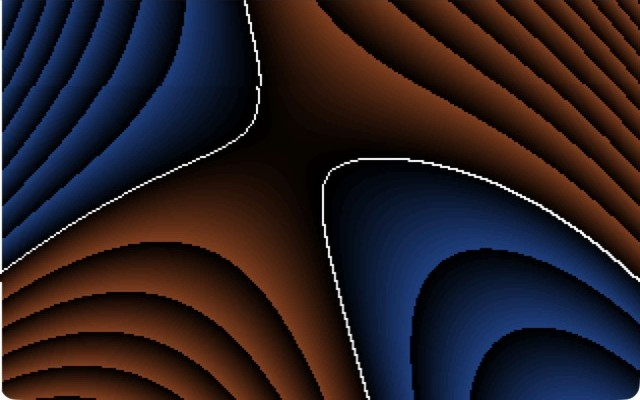
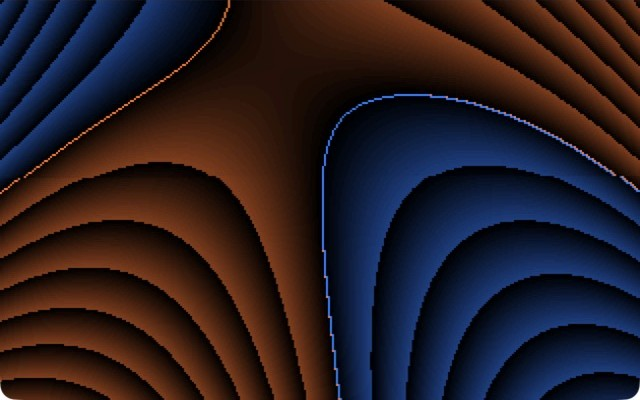
ROOTS expanded (second coefficient, 251 B); ORDER shrunk to 108 B with identical output

diff --git a/tests/test_lab.py b/tests/test_lab.py
@@ -203,8 +203,8 @@ pos = sum(1 for b in s1 if not b & 128) / 64000
 check(300 < len(white) < 6000 and 0.1 < pos < 0.9, f"ROOTS: thin root curves ({len(white)} white pixels) between positive and negative regions ({pos:.0%} positive)")
 check(all((s1[i] ^ s1[i-1]) & 128 or (s1[i] ^ s1[i-320]) & 128 for i in white), "ROOTS: every white pixel is a real sign change against its left or upper neighbour")
 check(not any(op in r.com for op in (b"\xDB\xE3", b"\xD9\xFE", b"\xD9\xFF")) and not any(p == 0x42 for p, v in r.outs), "ROOTS: 32-bit integer maths only (no fninit, fsin or fcos), no sound")
-r.frames(3, per=2); s2 = r.screen()[:64000]
-check(sum(1 for a, b in zip(s1, s2) if (a ^ b) & 128) > 1000, "ROOTS: the sign regions (and so the roots) move as T changes")
+r.frames(24, per=2); s2 = r.screen()[:64000]
+check(sum(1 for a, b in zip(s1, s2) if (a ^ b) & 128) > 1000, "ROOTS: the sign regions (and so the roots) move as the coefficients T and S change")
 rx = Run("ROOTS.COM"); rx.run_until_exit(1, per=2)
 check(rx.exited and (0x10, 0x03) in rx.ints, "ROOTS: Esc restores text mode 3 and returns to DOS")
 

diff --git a/README.md b/README.md
@@ -19,8 +19,8 @@ sound is computed by a few hundred bytes of code.
 | [`FIRE.COM`](src/fire.asm) | 123 B | 386, VGA | Framebuffer feedback: each pixel becomes the average of four pixels below it, minus a little, with random heat injected at the bottom. A smoky turbulent fire, no FPU. |
 | [`ESCHER.COM`](src/escher.asm) | 137 B | 386, VGA | The picture is drawn once; after that only the CRT controller's start address and line-compare registers move, folding a hyperbolic texture into an impossible patchwork. No pixel is ever redrawn. |
 | [`CHLADNI.COM`](src/chladni.asm) | 224 B | 386 + FPU, VGA | The nodal lines of a vibrating plate, `sin(ax)sin(by) - sin(bx)sin(ay) = 0`, with drifting mode numbers that also tune the speaker. |
-| [`ROOTS.COM`](src/roots.asm) | 232 B | 386, VGA | Polynomial root migration: the white curves are where a cubic in x and y changes sign; as one coefficient sweeps, the roots migrate, pinch into a crossing and reconnect the other way. Warm and cool contour bands show the sign. |
-| [`ORDER.COM`](src/order.asm) | 123 B | 386, VGA | Three cheap expressions per pixel (hyperbolas, vertical lines, horizontal lines) are never drawn; only which of the six orderings they are in is, so the screen is a set of regions whose boundaries fold and collide as time moves. |
+| [`ROOTS.COM`](src/roots.asm) | 251 B | 386, VGA | Polynomial root migration: the bright curves are where a cubic in x and y changes sign; as two coefficients sweep at different speeds, the roots migrate, pinch into crossings and reconnect, in new places each time. Warm and cool contour bands show the sign. |
+| [`ORDER.COM`](src/order.asm) | 108 B | 386, VGA | Three cheap expressions per pixel (hyperbolas, vertical lines, horizontal lines) are never drawn; only which of the six orderings they are in is, so the screen is a set of regions whose boundaries fold and collide as time moves. |
 | [`WARP.COM`](src/warp.asm) | 72 B | 386, VGA | No video mode, no drawing: the DOS screen you launched it from is squashed, stretched and sheared by rewriting two CRT-controller registers (character height and row stride) every frame. |
 | [`LATCH.COM`](src/latch.asm) | 82 B | 386, EGA/VGA | A rule-60 cellular automaton (Sierpinski waterfalls) computed by the VGA graphics controller: each byte read loads 8 pixels x 4 planes into the latches, each write puts them back one row up with an XOR colour applied by the hardware. |
 | [`JULIA.COM`](src/julia.asm) | 161 B | 386, VGA | A Julia set in 8.8 fixed point. Its constant circles on a Minsky oscillator, so the fractal continually changes shape. No FPU, no sine table. |
@@ -86,7 +86,7 @@ All captured from the real binaries in DOSBox.
 | ![CHLADNI](docs/chladni-a.jpg) | ![CHLADNI later](docs/chladni-b.jpg) |
 | **CHLADNI.** Sand gathers on the lines where the plate does not move. | **CHLADNI, later.** As the mode number drifts, the nodal lines reconnect into loops, then a lattice. |
 | ![ORDER](docs/order.jpg) | ![ROOTS](docs/roots.jpg) |
-| **ORDER** in DOSBox: hyperbola fans cut by straight partitions, each region an ordering of three numbers. | **ROOTS** in DOSBox: two root curves just after they have crossed and reconnected. |
+| **ORDER** in DOSBox: hyperbola fans cut by straight partitions, each region an ordering of three numbers. | **ROOTS** in DOSBox: the roots drawn in the brightest shade of their own side, orange where the cubic is positive and blue where it is negative. |
 | ![WARP](docs/warp-a.jpg) | ![WARP squashed](docs/warp-b.jpg) |
 | **WARP.** The DOSBox start-up screen, stretched and sheared into a staircase: the text in memory is unchanged. | **WARP, squashed.** At 4 scan lines per character the whole screen collapses into the top fifth. |
 | ![LATCH](docs/latch-a.jpg) | ![LATCH later](docs/latch-b.jpg) |
@@ -109,7 +109,7 @@ Real recordings of the shipped binaries in DOSBox 0.74-3 (`cycles=max`), so what
 | ![WARP](docs/warp.gif) | ![ORDER](docs/order.gif) |
 | **WARP**, 6.5 s: the DOS screen squashing, stretching and shearing. Rendered (see below). | **ORDER**, 6 s: the regions folding as the three expressions move. Rendered (see below). |
 | ![ROOTS](docs/roots.gif) | |
-| **ROOTS**, 5 s: the root curves migrating, crossing and reconnecting. Rendered (see below). | |
+| **ROOTS**, 6 s: the root curves migrating, crossing and reconnecting. Rendered (see below). | |
 
 *How they were made: with DOSBox in front, its window was screen-captured at 30 to 60 frames per second (cropped to the window only), then converted to 25 fps GIFs at the native 320x200 (ESCHER at 20 fps to keep it small) with a reduced palette. A small patch where the mouse pointer sat at the top edge was painted black. GIF cannot show a 70 Hz display, so very fast detail is smoother in the real thing.*
 
@@ -239,12 +239,14 @@ As with the attractors, **I have not listened to the speaker.**
 From the same list, "polynomial root migration" (#9), which turned out to show the list's "catastrophe" idea (#98) too. For each pixel, with X = x - 160 and Y = y - 100:
 
 ```
-v = X^3/64  -  6 X (Y + T)  +  Y^2 T / 16          (32-bit integers; T sweeps -32..+31 and back)
+v = X^3/64  +  X (16 S - 6 T - 6 Y)  +  Y^2 T / 16        (32-bit integers)
 ```
 
-The program never draws v itself. Bit 7 of each pixel's colour is v's **sign**, and a pixel turns white when its sign differs from the pixel to its left or the one above (the row above is already in video memory, so the screen itself is the memory for the edge test). Those white pixels are the zero set of the cubic: its roots. The other seven bits shade |v| into faint contour bands, warm on the positive side and cool on the negative.
+T and S are two triangle waves from one 9-byte subroutine, S four times slower than T. The two linear coefficients are folded into one per-frame constant, `K = 16 S - 6 T`, so a pixel costs one multiply for them, not two.
 
-As T moves, the curves migrate. At some values two branches meet in a crossing and then reconnect the other way: a saddle, the point where the picture's topology changes. The palette is built by one loop: shades 0..63 warm, 128..191 cool, and entries 127 and 255 white so a root keeps its sign bit.
+The program never draws v itself. Bit 7 of each pixel's colour is v's **sign**, and a pixel is a **root** when its sign differs from the pixel to its left or the one above (the row above is already in video memory, so the screen itself is the memory for the edge test; row 0 and column 0 are skipped). A root takes the brightest entry of its own side's ramp: orange on the positive side, blue on the negative. Everywhere else the other bits shade |v| into dim contour bands, warm or cool. The palette is one short loop: each index's low 6 bits are a brightness, and bit 7 swaps red and blue.
+
+As T sweeps, the curves migrate; at some values two branches meet in a crossing and then reconnect the other way, a saddle where the picture's topology changes. The slower S tilts the whole cubic, so each sweep puts the crossings in a different place.
 
 I prototyped about twenty of the list's mechanisms as NumPy models first (Collatz stopping times, coprimality, quadratic residues, 3-adic valuations, bit run lengths, functional-graph basins, determinants, projective curtains, curvature, energy defects of a Minsky circle, wrap-around conservation failure, forward/backward rotation error, integer vortices, an integer logistic map, inverse branches of x^2 mod 256, hysteresis) and only built the two that looked like something: ORDER and ROOTS. Most of the number-theory fields read as noise at screen resolution; several of the others are familiar shapes (hyperbola contours, ray floors, bifurcation diagrams).
 
@@ -258,7 +260,7 @@ b = x - 2t             vertical lines, drifting the other way
 c = 3y + t             horizontal lines
 ```
 
-All three are 8-bit and wrap. Three comparisons (`a<b`, `b<c`, `a<c`) are collected into AL with `cmp` / `rcl al,1`, so the carry flag carries each answer straight into a 3-bit region number; two of the eight patterns are logically impossible, so exactly six regions can appear (the test sees all six). The region selects a 32-entry band of the palette and `a` shades it. Where two of the expressions are equal, a boundary runs; as `t` moves, the hyperbola fans slide across the line grid and regions fold, collide and swap. No sine, square root, table or FPU.
+All three are 8-bit and wrap. Three comparisons (`a<b`, `b<c`, `a<c`) are collected into AH with `cmp` / `rcl ah,1`, so the carry flag carries each answer straight into a 3-bit region number; two of the eight patterns are logically impossible, so exactly six regions can appear (the test sees all six). The region selects a 32-entry band of the palette and `a` shades it. Where two of the expressions are equal, a boundary runs; as `t` moves, the hyperbola fans slide across the line grid and regions fold, collide and swap. No sine, square root, table or FPU. Time lives in BP and every expression is computed in a 16-bit register and compared by its low byte, which brought the program from 123 to 108 bytes with identical pixels.
 
 Tried from the same list and not shipped: **EUCLID** (#2, colour = the number of subtractions in Euclid's GCD algorithm on the pixel coordinates) shows the expected bright rays at rational slopes, but the background between them is irregular counts that read as noise rather than the promised "crystal city"; **ORBIT** (#47, plotting a full-period 16-bit linear congruential generator as a trajectory) covers the screen uniformly, as a full-period permutation must, so there is nothing to see but noise.
 
@@ -422,7 +424,7 @@ Every push and pull request builds the demos, enforces the 256-byte limit and ru
 add a section to `CHANGELOG.md` and push a tag:
 
 ```sh
-git tag v1.9.0 && git push origin v1.9.0
+git tag v1.10.0 && git push origin v1.10.0
 ```
 
 The release workflow rebuilds, re-tests, and attaches the `.COM` files, `SHA256SUMS` and the gallery image, with that section as the notes.

diff --git a/CHANGELOG.md b/CHANGELOG.md
@@ -1,5 +1,9 @@
 # Changelog
 
+## [1.9.0]
+- **ROOTS** expanded and recoloured (232 -> 251 B): a second, slower coefficient S tilts the cubic so crossings happen in new places each sweep; the two linear terms are folded into one per-frame constant; roots drawn in the brightest shade of their own side (no special white palette branch); column 0 and row 0 no longer draw false roots.
+- **ORDER** shrunk 123 -> 108 B with pixel-identical output (time in BP, expressions in 16-bit registers compared by their low bytes).
+
 ## [1.8.0]
 - **ROOTS** (232 B): polynomial root migration, the sign changes of a cubic as white curves that cross and reconnect. 10 new checks (111 in all). Rendered GIF and DOSBox still.
 - README: the twenty mechanisms prototyped from the 100-effects list and why only two were built.
